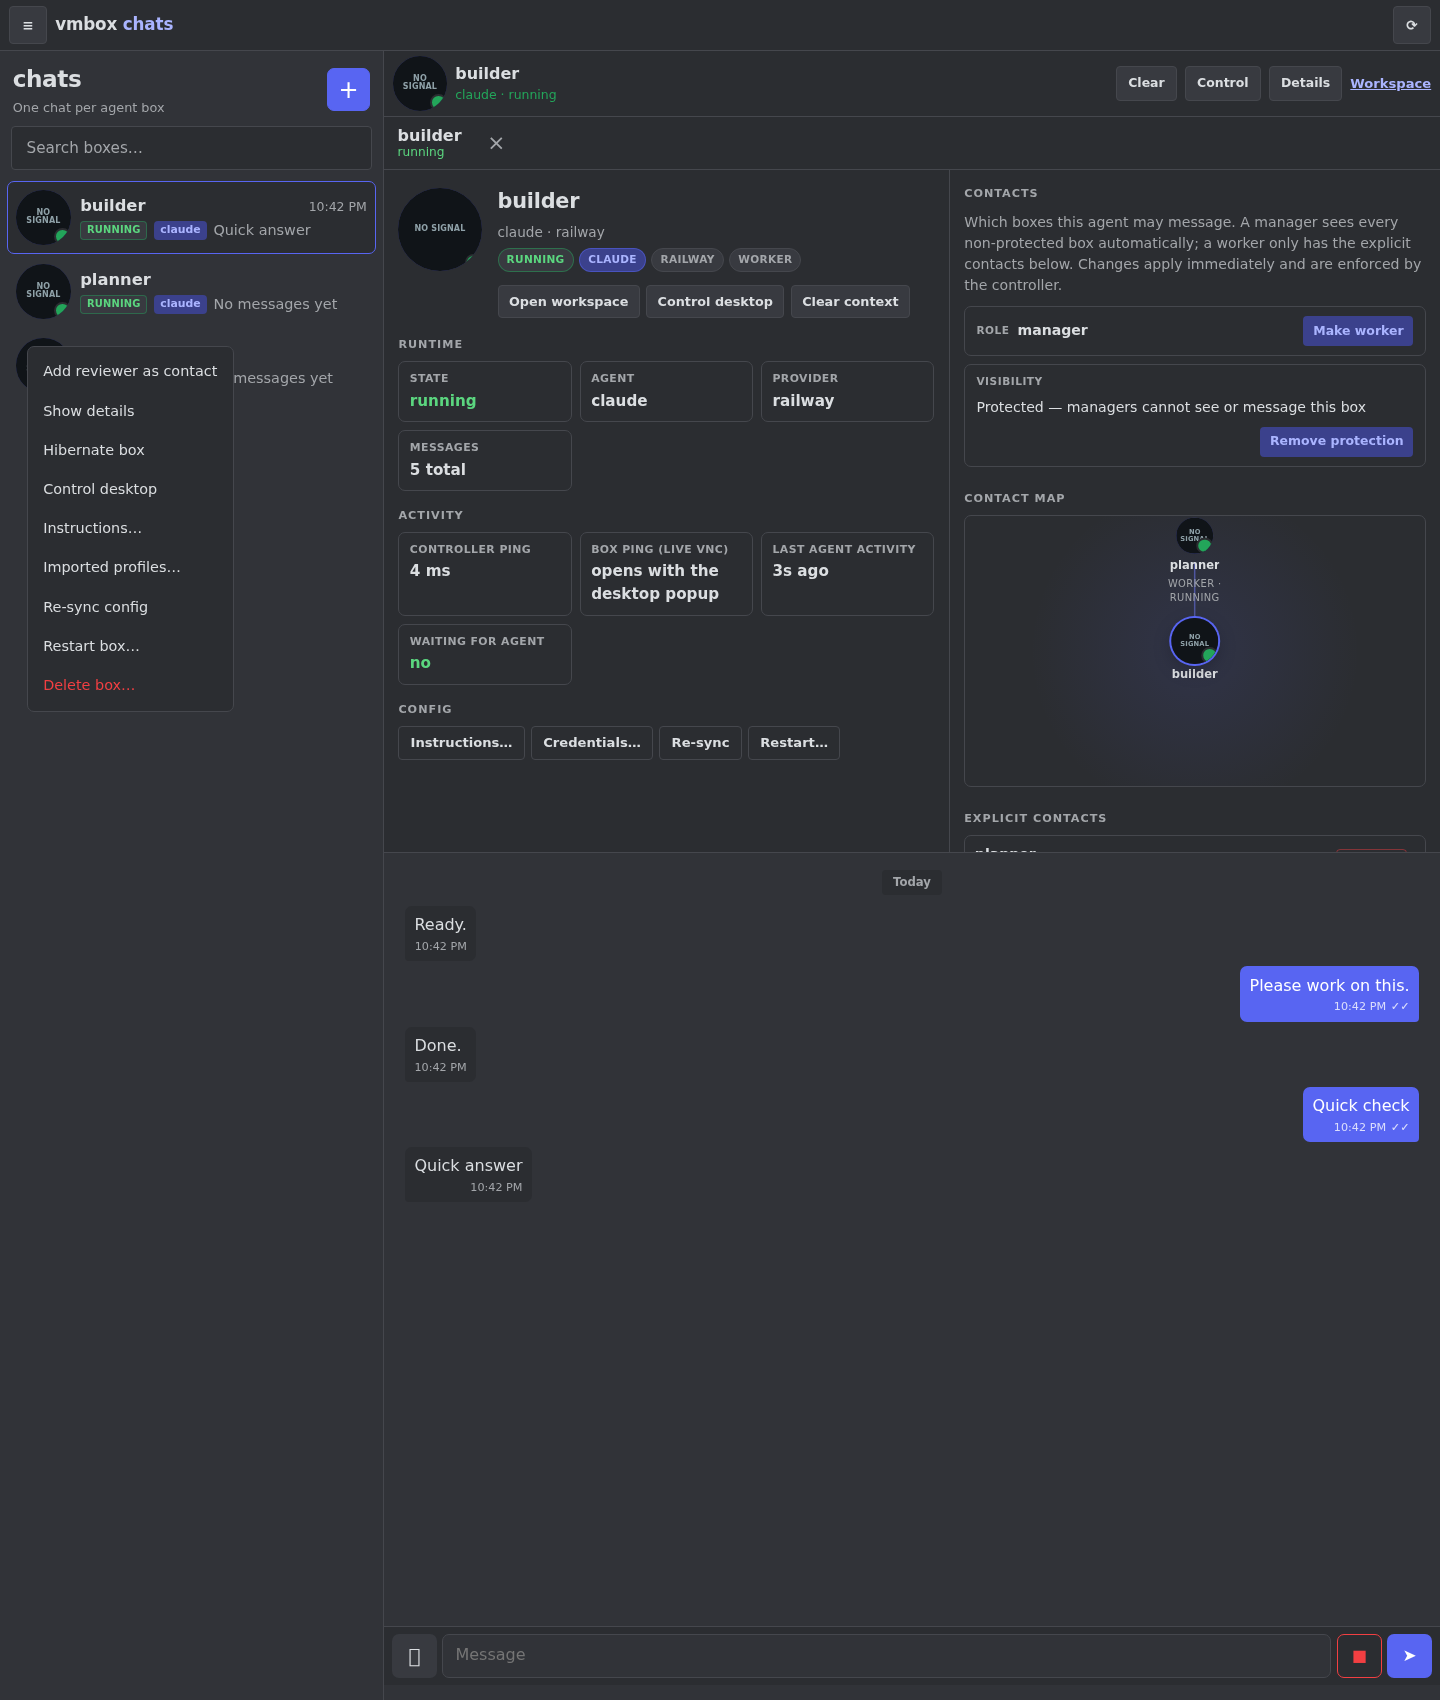
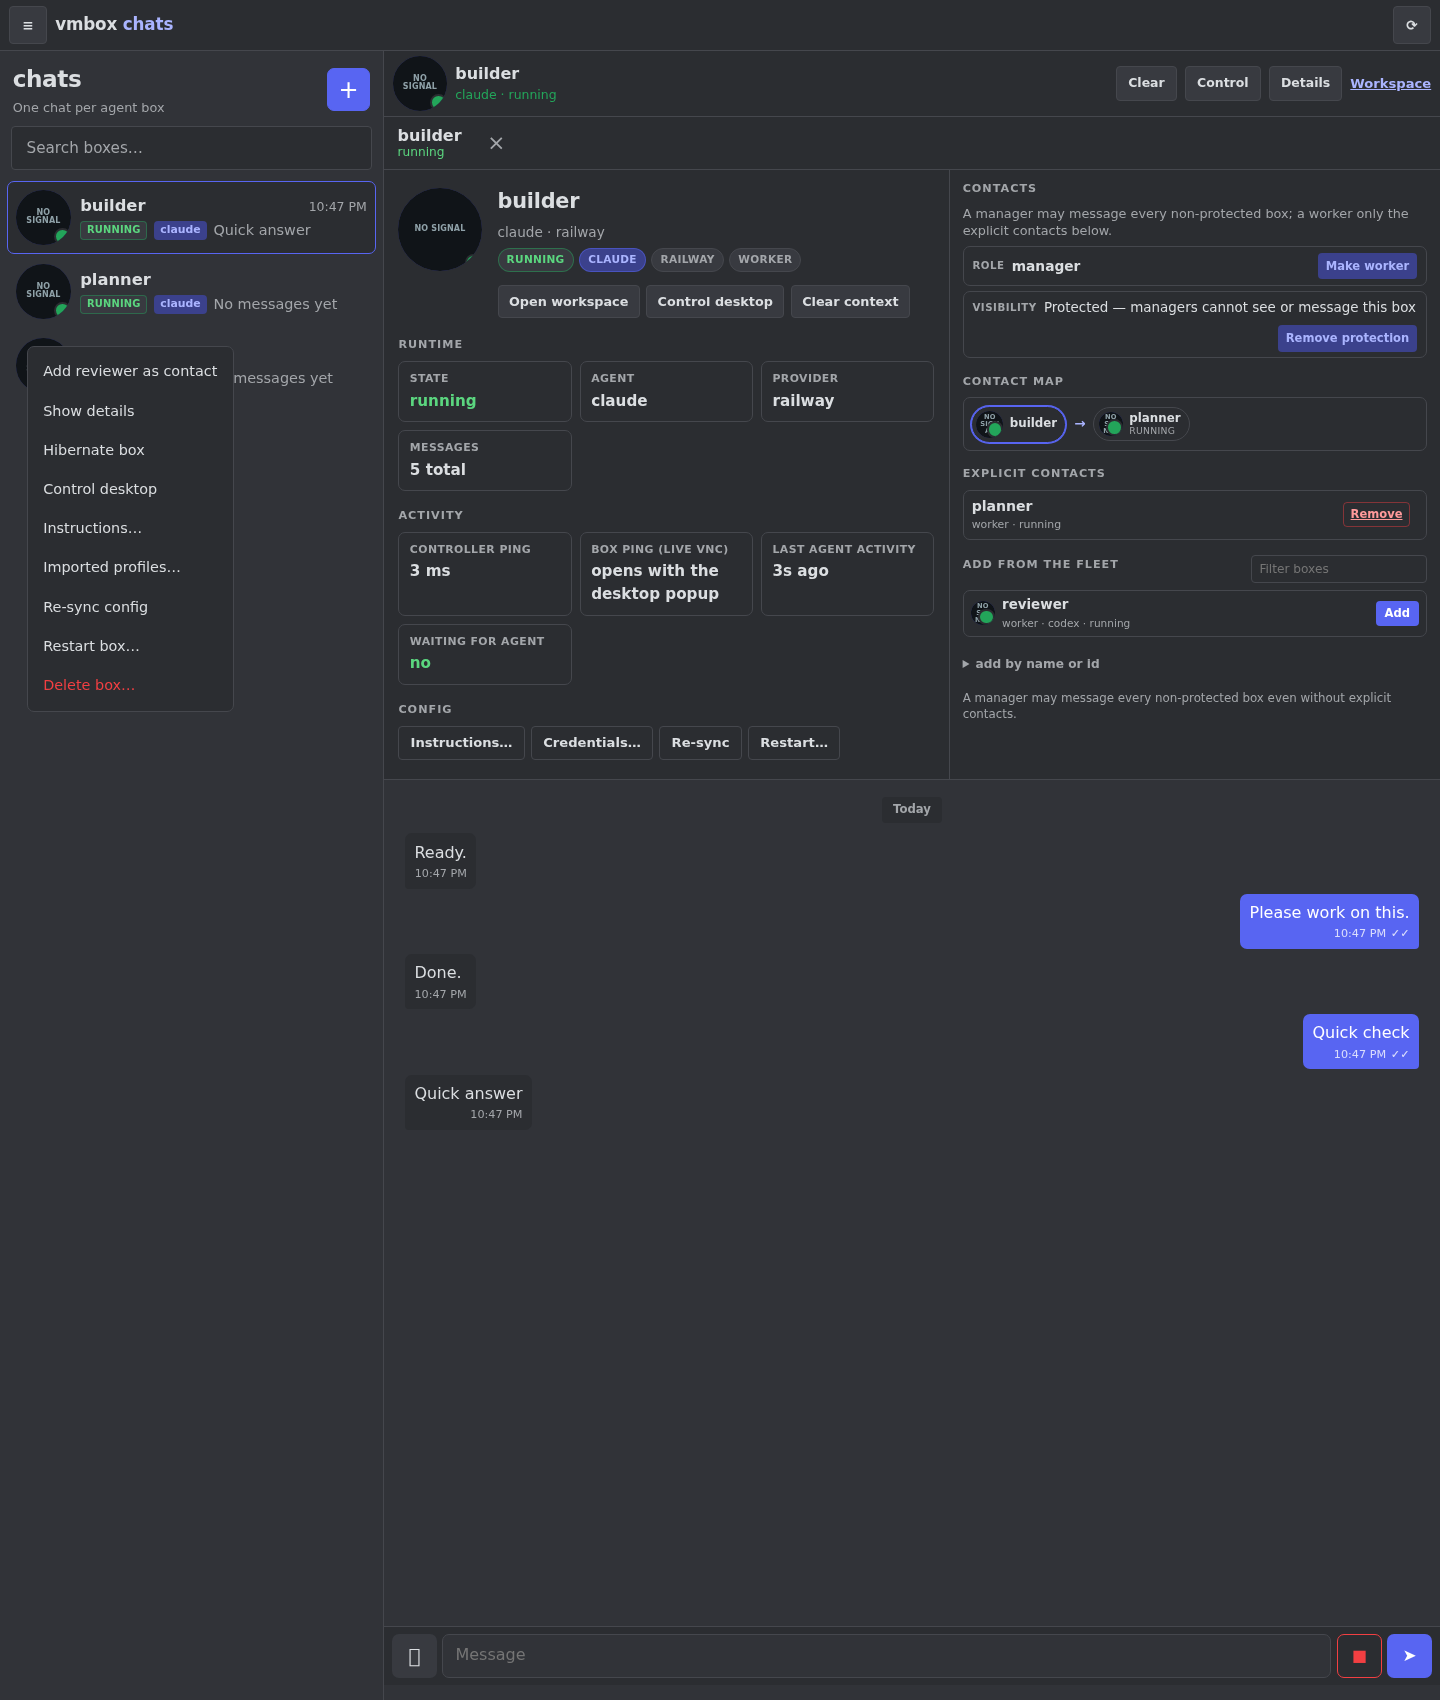
Slim down the contacts drawer
The contacts column was mostly whitespace. Replace the tall radial
contact map with a one-line chip chain (box -> contacts), compact the
role/visibility cards, contact list and fleet rows, and tuck the manual
name-or-id entry behind a disclosure. Regenerates the screenshots.

diff --git a/internal/controller/web/chat.css b/internal/controller/web/chat.css
@@ -273,67 +273,71 @@ body{max-width:none;margin:0;padding:0;height:100%;
   border:1px solid var(--line);border-radius:var(--radius-sm);padding:.4rem .7rem;cursor:pointer}
 .inspect-actions button:hover{background:var(--accent-soft);border-color:var(--accent)}
 #inspect-contacts{grid-column:2;grid-row:1;border-left:1px solid var(--line);background:var(--surface);
-  padding:1rem .9rem 1.2rem;font-size:.88rem;overflow-y:auto;display:flex;flex-direction:column;gap:.6rem;min-width:0}
+  padding:.7rem .8rem .8rem;font-size:.84rem;overflow-y:auto;display:flex;flex-direction:column;gap:.45rem;min-width:0}
 #inspect-contacts[hidden]{display:none}
 #inspect:not(.with-contacts) #inspect-contacts{display:none}
+#inspect-contacts .inspect-block{margin-top:.5rem}
 #inspect-contacts .inspect-block-head h3{margin:0;font-size:.7rem;font-weight:800;letter-spacing:.09em;text-transform:uppercase;color:var(--ink-soft)}
-.inspect-lede{margin:0;color:var(--ink-soft);line-height:1.5}
-.contact-policy{display:grid;gap:.5rem}
-.contact-policy-card{display:flex;align-items:center;gap:.5rem;flex-wrap:wrap;padding:.55rem .7rem;background:var(--bg2);
+.inspect-lede{margin:0;color:var(--ink-soft);font-size:.8rem;line-height:1.35}
+.contact-policy{display:grid;gap:.35rem}
+.contact-policy-card{display:flex;align-items:center;gap:.45rem;flex-wrap:wrap;padding:.35rem .55rem;background:var(--bg2);
   border:1px solid var(--line);border-radius:var(--radius)}
-.contact-policy-card .policy-label{font-size:.66rem;font-weight:800;text-transform:uppercase;letter-spacing:.05em;color:var(--ink-soft)}
-.contact-policy-card strong{color:var(--ink)}
-.contact-policy-card button{margin-left:auto;font:inherit;font-size:.78rem;font-weight:700;color:var(--accent-text);
-  background:var(--accent-soft);border:1px solid transparent;border-radius:var(--radius-sm);padding:.3rem .55rem;cursor:pointer}
+.contact-policy-card .policy-label{font-size:.64rem;font-weight:800;text-transform:uppercase;letter-spacing:.05em;color:var(--ink-soft)}
+.contact-policy-card strong{color:var(--ink);font-size:.86rem}
+.contact-policy-card button{margin-left:auto;font:inherit;font-size:.72rem;font-weight:700;color:var(--accent-text);
+  background:var(--accent-soft);border:1px solid transparent;border-radius:var(--radius-sm);padding:.22rem .45rem;cursor:pointer}
 .contact-policy-card button:hover{border-color:var(--accent)}
-#inspect-contact-list{list-style:none;margin:0;padding:0;display:flex;flex-direction:column;gap:.4rem;max-height:12rem;overflow-y:auto}
-#inspect-contact-list li{display:flex;align-items:center;gap:.5rem;padding:.5rem .6rem;background:var(--bg2);
+#inspect-contact-list{list-style:none;margin:0;padding:0;display:flex;flex-direction:column;gap:.3rem;max-height:7rem;overflow-y:auto}
+#inspect-contact-list li{display:flex;align-items:center;gap:.4rem;padding:.32rem .5rem;background:var(--bg2);
   border:1px solid var(--line);border-radius:var(--radius);min-width:0}
 #inspect-contact-list li.empty{justify-content:center;color:var(--ink-soft);font-style:italic;background:none;border-style:dashed}
 .contact-info{display:flex;flex-direction:column;min-width:0}
-.contact-name{font-weight:700;color:var(--ink);overflow:hidden;text-overflow:ellipsis;white-space:nowrap}
-.contact-meta{font-size:.72rem;color:var(--ink-soft)}
-#inspect-contact-list li button{margin-left:auto;flex:none;font:inherit;font-size:.74rem;font-weight:700;color:var(--danger-text);
-  background:none;border:1px solid color-mix(in srgb,var(--danger) 45%,transparent);border-radius:var(--radius-sm);padding:.22rem .5rem;cursor:pointer}
+.contact-name{font-size:.88rem;font-weight:700;color:var(--ink);overflow:hidden;text-overflow:ellipsis;white-space:nowrap}
+.contact-meta{font-size:.68rem;color:var(--ink-soft)}
+#inspect-contact-list li button{margin-left:auto;flex:none;font:inherit;font-size:.72rem;font-weight:700;color:var(--danger-text);
+  background:none;border:1px solid color-mix(in srgb,var(--danger) 45%,transparent);border-radius:var(--radius-sm);padding:.18rem .42rem;cursor:pointer}
 #inspect-contact-list li button:hover{background:color-mix(in srgb,var(--danger) 16%,transparent)}
+#inspect-contact-manual summary{cursor:pointer;font-size:.76rem;font-weight:700;color:var(--ink-soft);padding:.15rem 0}
+#inspect-contact-manual[open] summary{margin-bottom:.35rem}
 #inspect-contacts form{display:flex;gap:.4rem;flex-wrap:wrap;align-items:flex-end}
-#inspect-contacts form label{display:flex;flex-direction:column;gap:.2rem;flex:1 1 9rem;font-size:.8rem;color:var(--ink-soft)}
+#inspect-contacts form label{display:flex;flex-direction:column;gap:.2rem;flex:1 1 9rem;font-size:.78rem;color:var(--ink-soft)}
 #inspect-contacts form input{font:inherit;background:var(--bg2);color:var(--ink);border:1px solid var(--line);
-  border-radius:var(--radius-sm);padding:.42rem .55rem;width:100%}
-#inspect-contacts form button{font:inherit;font-size:.82rem;font-weight:700;background:var(--accent);color:var(--accent-ink);
-  border:0;border-radius:var(--radius-sm);padding:.46rem .75rem;cursor:pointer}
-#inspect-contact-status{margin:0;font-size:.78rem;color:var(--ink-soft);line-height:1.45}
-/* ── contact map: the viewed box and its explicit contacts as a graph ── */
+  border-radius:var(--radius-sm);padding:.36rem .5rem;width:100%}
+#inspect-contacts form button{font:inherit;font-size:.78rem;font-weight:700;background:var(--accent);color:var(--accent-ink);
+  border:0;border-radius:var(--radius-sm);padding:.4rem .65rem;cursor:pointer}
+#inspect-contact-status{margin:0;font-size:.74rem;color:var(--ink-soft);line-height:1.35}
+/* ── contact map: the viewed box and its explicit contacts as chips ──── */
 #inspect-contact-map .inspect-block{margin-top:0}
-.contact-graph{position:relative;height:17rem;border:1px solid var(--line);border-radius:var(--radius);overflow:hidden;
-  background:radial-gradient(circle at 50% 50%,color-mix(in srgb,var(--accent) 12%,transparent),transparent 62%),var(--bg2)}
-.contact-graph-lines{position:absolute;inset:0;width:100%;height:100%}
-.contact-graph-lines line{stroke:color-mix(in srgb,var(--accent) 50%,var(--line));stroke-width:1.5;vector-effect:non-scaling-stroke}
-.contact-graph-nodes{position:absolute;inset:0}
-.cg-node{position:absolute;transform:translate(-50%,-50%);display:flex;flex-direction:column;align-items:center;gap:.15rem;
-  width:4.6rem;text-align:center}
-.cg-node .avatar{width:2.3rem;height:2.3rem}
-.cg-node .avatar .initials{font-size:.78rem}
-.cg-label{font-size:.72rem;font-weight:700;color:var(--ink);max-width:100%;overflow:hidden;text-overflow:ellipsis;white-space:nowrap}
-.cg-sub{font-size:.62rem;color:var(--ink-soft);text-transform:uppercase;letter-spacing:.04em}
-.cg-center .avatar{width:2.9rem;height:2.9rem;box-shadow:0 0 0 2px var(--accent),0 6px 18px rgba(0,0,0,.25)}
-.cg-center .cg-label{font-weight:800}
-.cg-more{color:var(--ink-soft);font-style:italic}
+.contact-graph{border:1px solid var(--line);border-radius:var(--radius);background:var(--bg2);padding:.45rem}
+.contact-graph-nodes{display:flex;align-items:center;flex-wrap:wrap;gap:.35rem .5rem}
+.cg-node{display:flex;align-items:center;gap:.4rem;padding:.24rem .5rem .24rem .28rem;background:var(--surface);
+  border:1px solid var(--line);border-radius:999px;max-width:100%}
+.cg-node .avatar{width:1.5rem;height:1.5rem;flex:none}
+.cg-node .avatar .initials{font-size:.6rem}
+.cg-text{display:flex;flex-direction:column;min-width:0;line-height:1.15}
+.cg-label{font-size:.74rem;font-weight:700;color:var(--ink);max-width:9rem;overflow:hidden;text-overflow:ellipsis;white-space:nowrap}
+.cg-sub{font-size:.58rem;color:var(--ink-soft);text-transform:uppercase;letter-spacing:.03em}
+.cg-center{border-color:var(--accent);box-shadow:0 0 0 1px var(--accent)}
+.cg-center .avatar{width:1.7rem;height:1.7rem}
+.cg-arrow{color:var(--accent-text);font-weight:800}
+.cg-more{color:var(--ink-soft);font-style:italic;font-size:.72rem}
 /* ── add from the fleet: every other box as a one-click reference ───── */
 .contact-picker-head{display:flex;align-items:center;gap:.5rem;justify-content:space-between}
-.contact-picker-head input{flex:1 1 7rem;max-width:11rem;min-width:0;font:inherit;font-size:.78rem;color:var(--ink);
-  background:var(--bg2);border:1px solid var(--line);border-radius:var(--radius-sm);padding:.3rem .5rem}
-.contact-candidates{display:flex;flex-direction:column;gap:.35rem;max-height:13rem;overflow-y:auto;margin-top:.45rem}
-.contact-candidate{display:flex;align-items:center;gap:.5rem;padding:.42rem .55rem;background:var(--bg2);
+.contact-picker-head input{flex:1 1 7rem;max-width:11rem;min-width:0;font:inherit;font-size:.76rem;color:var(--ink);
+  background:var(--bg2);border:1px solid var(--line);border-radius:var(--radius-sm);padding:.26rem .45rem}
+.contact-candidates{display:flex;flex-direction:column;gap:.28rem;max-height:8rem;overflow-y:auto;margin-top:.4rem}
+.contact-candidate{display:flex;align-items:center;gap:.45rem;padding:.3rem .45rem;background:var(--bg2);
   border:1px solid var(--line);border-radius:var(--radius);min-width:0}
-.contact-candidate .avatar{width:1.8rem;height:1.8rem;flex:none}
-.contact-candidate .avatar .initials{font-size:.7rem}
+.contact-candidate .avatar{width:1.5rem;height:1.5rem;flex:none}
+.contact-candidate .avatar .initials{font-size:.6rem}
 .contact-candidate .contact-info{flex:1}
-.contact-candidate button{margin-left:auto;flex:none;font:inherit;font-size:.74rem;font-weight:700;color:var(--accent-ink);
-  background:var(--accent);border:1px solid transparent;border-radius:var(--radius-sm);padding:.24rem .55rem;cursor:pointer}
+.contact-candidate .contact-name{font-size:.84rem}
+.contact-candidate .contact-meta{font-size:.66rem}
+.contact-candidate button{margin-left:auto;flex:none;font:inherit;font-size:.72rem;font-weight:700;color:var(--accent-ink);
+  background:var(--accent);border:1px solid transparent;border-radius:var(--radius-sm);padding:.2rem .5rem;cursor:pointer}
 .contact-candidate button:hover{filter:brightness(1.08)}
 .contact-candidate button:disabled{opacity:.5;cursor:default}
-.contact-candidates .empty,.contact-candidates .hint{color:var(--ink-soft);font-style:italic;font-size:.78rem;padding:.3rem .1rem}
+.contact-candidates .empty,.contact-candidates .hint{color:var(--ink-soft);font-style:italic;font-size:.76rem;padding:.25rem .1rem}
 
 /* ── processing bubble ───────────────────────────────────────────────── */
 .msg.processing{display:flex;align-items:center;gap:.5rem;color:var(--ink-soft);font-size:.82rem;padding:.4rem .6rem}

diff --git a/internal/controller/web/chat.js b/internal/controller/web/chat.js
@@ -1251,31 +1251,25 @@
  function graphNode(view,{center=false,contact=false}={}){
   const node=document.createElement('div');node.className='cg-node'+(center?' cg-center':'');
   node.append(avatarNode(view,true));
-  const label=document.createElement('span');label.className='cg-label';label.textContent=view.name;label.title=view.name;node.append(label);
-  if(contact){const sub=document.createElement('span');sub.className='cg-sub';sub.textContent=(view.role||'worker')+' · '+(view.state||'unknown');node.append(sub)}
+  const text=document.createElement('span');text.className='cg-text';
+  const label=document.createElement('span');label.className='cg-label';label.textContent=view.name;label.title=view.name;text.append(label);
+  if(contact){const sub=document.createElement('span');sub.className='cg-sub';sub.textContent=view.state||'unknown';text.append(sub)}
+  node.append(text);
   return node;
  }
- // A radial map of the viewed box and its explicit contacts. Contacts beyond
- // the cap stay in the Explicit contacts list below, so the graph never crowds.
+ // A slim horizontal chain: the viewed box, an arrow, then its explicit
+ // contacts as chips. Overflow stays in the Explicit contacts list below.
  function renderContactGraph(box,contacts){
-  const graph=$('#inspect-contact-graph');if(!graph)return;
-  const nodes=$('#inspect-contact-graph-nodes'),svg=$('#inspect-contact-graph-lines');
-  nodes.replaceChildren();svg.replaceChildren();
-  const views=(contacts||[]).slice(0,6).map(contactView);
-  const w=graph.clientWidth||320,h=graph.clientHeight||240,cx=w/2,cy=h/2;
-  const radius=Math.max(40,Math.min(w,h)/2-46);
-  graph.setAttribute('aria-label',box.name+' has '+views.length+' contact'+(views.length===1?'':'s')+' shown in the contact map');
-  svg.setAttribute('viewBox','0 0 '+w+' '+h);
-  const place=(view,dx,dy,opts)=>{const node=graphNode(view,opts);node.style.left=(cx+dx)+'px';node.style.top=(cy+dy)+'px';nodes.append(node)};
-  for(let i=0;i<views.length;i++){
-   const angle=-Math.PI/2+(i/views.length)*Math.PI*2;
-   const dx=Math.cos(angle)*radius,dy=Math.sin(angle)*radius;
-   const line=document.createElementNS('http://www.w3.org/2000/svg','line');
-   line.setAttribute('x1',String(cx));line.setAttribute('y1',String(cy));
-   line.setAttribute('x2',String(cx+dx));line.setAttribute('y2',String(cy+dy));svg.append(line);
-   place(views[i],dx,dy,{contact:true});
-  }
-  place({id:box.id,name:box.name,state:box.state,role:box.role||'worker',defaultAgent:box.defaultAgent||''},0,0,{center:true});
+  const graph=$('#inspect-contact-graph'),nodes=$('#inspect-contact-graph-nodes');
+  if(!graph||!nodes)return;
+  nodes.replaceChildren();
+  const views=(contacts||[]).map(contactView);
+  const shown=views.slice(0,6);
+  nodes.append(graphNode({id:box.id,name:box.name,state:box.state,role:box.role||'worker',defaultAgent:box.defaultAgent||''},{center:true}));
+  if(views.length){const arrow=document.createElement('span');arrow.className='cg-arrow';arrow.textContent='→';arrow.setAttribute('aria-hidden','true');nodes.append(arrow)}
+  for(const view of shown)nodes.append(graphNode(view,{contact:true}));
+  if(views.length>shown.length){const more=document.createElement('span');more.className='cg-more';more.textContent='+'+(views.length-shown.length)+' more';nodes.append(more)}
+  graph.setAttribute('aria-label',box.name+' can message '+views.length+' contact'+(views.length===1?'':'s')+' shown in the contact map');
  }
  // Every other box in the loaded fleet is one click away from being a contact.
  function renderContactCandidates(box){
@@ -1343,7 +1337,6 @@
   inspectContactsFor=box.id;inspectContactCache=null;void loadInspectContacts(box);
  }
  $('#inspect-contact-filter').oninput=()=>{const box=boxes.get(selected);if(box&&inspectContactsFor===box.id)renderContactCandidates(box)};
- addEventListener('resize',()=>{const box=boxes.get(selected);if(inspectOpen&&box&&inspectContactsFor===box.id&&inspectContactCache)renderContactGraph(box,inspectContactCache)});
  $('#inspect-contact-form').onsubmit=async event=>{event.preventDefault();const box=boxes.get(selected);if(!box)return;const button=event.target.querySelector('button');button.disabled=true;try{await api(boxPath(box.id)+'/contacts','PUT',{}, {contact:event.target.elements.contact.value.trim()});event.target.reset();await loadInspectContacts(box)}catch(e){$('#inspect-contact-status').textContent=e.message}finally{button.disabled=false}};
  $('#inspect-toggle-role').onclick=async()=>{const box=boxes.get(selected);if(!box)return;const next=box.role==='manager'?'worker':'manager';try{await api(boxPath(box.id),'PATCH',{}, {defaultAgent:box.defaultAgent||'shell',role:next});box.role=next;await loadInspectContacts(box)}catch(e){$('#inspect-contact-status').textContent=e.message}};
  $('#inspect-toggle-protection').onclick=async()=>{const box=boxes.get(selected);if(!box)return;try{await api(boxPath(box.id)+'/protection','PUT',{}, {protected:!inspectProtected});await loadInspectContacts(box)}catch(e){$('#inspect-contact-status').textContent=e.message}};

diff --git a/internal/controller/web/chat.html b/internal/controller/web/chat.html
@@ -95,7 +95,7 @@
      </section>
      <section id="inspect-contacts" hidden>
       <header class="inspect-block-head"><h3>Contacts</h3></header>
-      <p class="inspect-lede">Which boxes this agent may message. A manager sees every non-protected box automatically; a worker only has the explicit contacts below. Changes apply immediately and are enforced by the controller.</p>
+      <p class="inspect-lede">A manager may message every non-protected box; a worker only the explicit contacts below.</p>
       <div class="contact-policy">
        <div class="contact-policy-card">
         <span class="policy-label">Role</span>
@@ -111,7 +111,6 @@
       <div id="inspect-contact-map" class="inspect-block">
        <h3>Contact map</h3>
        <div id="inspect-contact-graph" class="contact-graph" role="img" aria-label="Contact map of this box and its explicit contacts">
-        <svg id="inspect-contact-graph-lines" class="contact-graph-lines" aria-hidden="true" preserveAspectRatio="none"></svg>
         <div id="inspect-contact-graph-nodes" class="contact-graph-nodes"></div>
        </div>
       </div>
@@ -126,7 +125,10 @@
        </div>
        <div id="inspect-contact-candidates" class="contact-candidates"></div>
       </div>
-      <form id="inspect-contact-form"><label>Add by name or id <input name="contact" required maxlength="63" placeholder="box name or id"></label><button>Add contact</button></form>
+      <details id="inspect-contact-manual">
+       <summary>Add by name or id</summary>
+       <form id="inspect-contact-form"><label>Box name or id <input name="contact" required maxlength="63" placeholder="box name or id"></label><button>Add contact</button></form>
+      </details>
       <p id="inspect-contact-status" role="status"></p>
      </section>
     </div>
